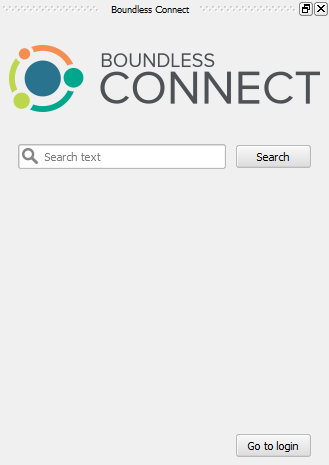
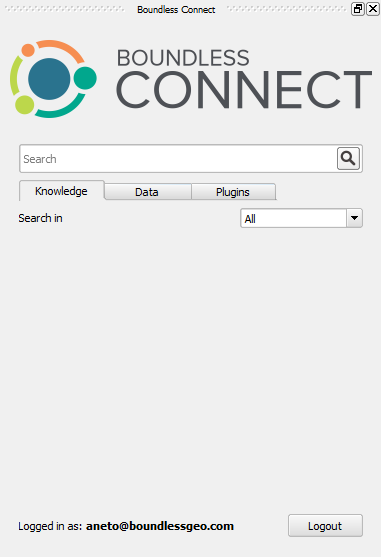
Updates documentation with new search UI and other improvements

diff --git a/docs/source/usage.rst b/docs/source/usage.rst
@@ -3,10 +3,8 @@ Usage
 
 .. _connect-tool:
 
-Boundless Connect Panel
------------------------
-
-The :guilabel:`Boundless Connect` panel will automatically open when |BLQGIS|'s QGIS is started for the first time.
+The :guilabel:`Boundless Connect` panel will automatically open when |BLQGIS|'s
+QGIS starts for the first time.
 
 .. figure:: img/connect-dock.png
    :align: center
@@ -20,7 +18,7 @@ The :guilabel:`Boundless Connect` panel will automatically open when |BLQGIS|'s 
 .. _connect-login:
 
 Boundless Connect Login
-.......................
+-----------------------
 
 If you want to install Boundless plugins from the remote *Boundless QGIS Plugin Repository* or search and access `Boundless Connect <https://connect.boundlessgeo.com/>`_ additional resources, you will need to enter `Boundless Connect <https://connect.boundlessgeo.com/>`_ credentials in the :guilabel:`email` and :guilabel:`password` fields, and press :guilabel:`Login`.
 
@@ -68,33 +66,127 @@ You can also skip entering your credentials, by pressing :guilabel:`Login` witho
    and other resources that don't require authentication. But, if you try to download protected
    plugins or access resources behind authentication, you will be asked for valid credentials.
 
-If |BLQGIS| was configured to use a local directory-based repository (check this with your system administrator), you can leave
+If |BLQGIS| is configured to use a local directory-based repository (check this with your system administrator), you can leave
 :guilabel:`Email` and :guilabel:`Password` fields empty. Press :guilabel:`Login` to continue. (In this case, you won't be asked for a master password.)
 
-Searching plugins and other resources
-.....................................
+Setting default basemaps
+........................
 
-After the login (either by entering your credentials or skipping it), the :guilabel:`Boundless Connect` panel will show a :guilabel:`Search text` field which can be used to search for Boundless plugins and other additional content.
+After the first successful login, a message box will pop up asking *Would you
+like to add Boundless basemap to your default project?*. If you choose
+**[Yes]**, the **Mapbox Street** basemap is added to your default
+project. After this, every time you open a new project it will contain the
+Mapbox basemap layer.
+
+You can revert this setting in going to :menuselection:`Settings -->
+Options` and, in the :guilabel:`General` tab, reset the default project clicking
+:guilabel:`Reset default`. You can also replace your default project by the
+one loaded in QGIS by clicking :guilabel:`Set current project as default`
+
+Check :ref:`connect-data-tab` to see how to add other basemap layers to your
+default project.
+
+.. _connect-search:
+
+Searching Boundless Connect
+---------------------------
+
+After the login (either by entering your credentials or skipping it), the :guilabel:`Boundless Connect` panel will show a :guilabel:`Search` field which can be used to search for Plugins, Data and Knowledge content from Boundless Connect.
 
 .. figure:: img/search-panel.png
    :align: center
 
    Boundless Connect Search
 
-Under the search field there is a dropdown list with all available content categories where you can select content categories in which you are interested. Note that "All" category includes all other categories, so if you select it, there is no need in selecting anything else.
+Under the search field, there are three tabs which allow you to choose the
+type content to search for: :guilabel:`Knowledge`, :guilabel:`Data`, and
+:guilabel:`Plugins`.
 
-At the bottom of the search panel, you can find the user's email you have logged with and a :guilabel:`Logout` button (clicking the :guilabel:`Logout` button will return you to the login page where you can enter new credentials).
+At the bottom of the :guilabel:`Boundless Connect` panel, you can find the user's email you have logged with and a :guilabel:`Logout` button (clicking the :guilabel:`Logout` button will return you to the login page where you can enter new credentials).
 
-To search for plugins or other resources, type some text in the field and click :guilabel:`Search` (or press :kbd:`Enter` on your keyboard).
+To search for Boundless Connect content, select the appropriate tab, type some
+text in the field and click the :guilabel:`Search` icon (or press :kbd:`Enter`
+on your keyboard).
 
 .. figure:: img/search-results.png
    :align: center
 
    Search results
 
-Each item of the search results will show a title and a description about it. There is also tags to inform the type of resources found. Depending on the type of resource, clicking on the item title will perform a different action. For items tagged as plugins, it will download and install the plugin. For other resources, like online content, it will open it in the default web browser.
+At the top of the results list, is shown the number of results. Each item of
+the search results will show an icon, a title and a description
+about it. There will also be some buttons that, depending on the type of
+resource found, will allow different actions. See the next sub-sections for
+more details.
 
-You will notice the grayed items with red tags. Those mean your subscription level is lower than it's required for accessing that resource, clicking it will point you to the subscription page in Boundless Connect, where you can upgrade your subscription.
+.. note::
+
+   You will note that some resources buttons are red (instead of blue). That
+   means your Boundless Connect subscription level is lower than what is
+   required for accessing that resource, clicking it will point you to the
+   subscription page in Boundless Connect, where you can upgrade your
+   subscription.
+
+   .. figure:: img/resource_needs_higher_subscription.png
+
+      Resource needs a higher subscription level
+
+Knowledge tab
+.............
+
+The :guilabel:`Knowledge` tab can be used to search resources related to
+knowledge about Boundless Products, including Product Documentation, Product
+Learning centers tutorials, Questions & Answers, Blog posts and Lessons
+for QGIS Lesson plugin.
+
+When in the :guilabel:`Knowledge` tab, under the search field there is a
+drop-down list of the available categories from where you can select
+the ones you are interested in searching from. Note that "All" category includes
+all other categories, so if you enable it, there is no need to choose
+any other category.
+
+.. figure:: img/knowledge_tab.png
+
+Under each result, there is a button that informs the category of the resource.
+Clicking it will perform a different action depending on the resource type.
+For lessons resources, it will download and install the lesson (you will
+need to `Lesson plugin <https://connect.boundlessgeo
+.com/docs/desktop/plugins/lessons/>`_ installed to use them). For other
+knowledge resources,
+like Documentation or Learning Center online content, it will open it in your
+default web browser.
+
+.. note::
+
+   **Learning**, **Q&A**, and **Blogs** resources will require you to enter
+   your Boundless Connect credential again in your browser.
+
+   .. figure:: img/enter_credentials_in_learning_center.png
+
+.. _connect-data-tab:
+
+Data tab
+........
+
+The :guilabel:`Data` tab can be used to search for datasets hosted or indexed
+by Boundless or available from one of our partners. For each result there
+will be two action buttons available:
+
+* :guilabel:`Add to map` - Adds the  dataset to the current QGIS project.
+* :guilabel:`Add to default project` - Adds the layer to the bottom of your QGIS
+  default project. This project will be used as a base for when you create a new
+  project.
+
+.. figure:: img/data_tab.png
+
+Plugins tab
+...........
+
+The :guilabel:`Plugins` tab can be used to search for Boundless Plugins for
+QGIS. For each result, there will be a button that allow you to
+download and install the plugin easily.
+
+.. figure:: img/plugin_tab.png
 
 .. note::
 
@@ -105,7 +197,9 @@ You will notice the grayed items with red tags. Those mean your subscription lev
 Plugins installation
 --------------------
 
-Using |connect_plugin|, two extra plugin sources can be used besides the usual online remote repository. Therefore, depending on your configuration you can install plugins in several different ways:
+|connect_plugin| adds two extra plugin sources that can be used to install
+plugins besides the usual online remote repository. Therefore, depending on
+your configuration, you can install plugins in several different ways:
 
 * :ref:`from-remote-repository`
 * :ref:`from-local-repository` (available with |connect_plugin| only)
@@ -118,7 +212,7 @@ From a remote plugin repository
 
 This is the most common way to install plugins, whether from QGIS's Official Plugins Repository, Boundless QGIS Plugins Repository or any other remote repository that you may have configured, using QGIS's *Plugin Manager* directly in :menuselection:`Plugins --> Manage and Install Plugins...`
 
-In the particular case of the remote *Boundless QGIS Plugin Repository*, it will be necessary to provide credentials to fully access the repository. Therefore, make sure to login as described in :ref:`connect-login`. These can also be set manually in QGIS *Plugin Manager* settings.
+In the particular case of the remote *Boundless QGIS Plugin Repository*, it will be necessary to provide credentials to access the repository fully. Therefore, make sure to login as described in :ref:`connect-login`. These can also be set manually in QGIS *Plugin Manager* settings.
 
 For more information on how to use *Plugin Manager*, please refer to the following tutorial on `Working with QGIS plugins <https://learning-center.boundlessgeo.com/desktop/quickstart/working_with_qgis_plugins/index.html>`_.
 
@@ -131,9 +225,9 @@ From a local repository
 
 Using |connect_plugin|, it's possible to use a local path or network path as a repository (see :ref:`configure-repository-location` section for details on how to set a local repository). This can be useful in cases of limited or inexistent internet access or to provide a curated list of plugins for your company.
 
-If any repository was set that way, the |connect_plugin| will add an additional menu item in :menuselection:`Plugins` named :guilabel:`Manage plugins (local folder)`. This tool should be used when the user wants to install plugins from a local (directory-based) repository. The usage is similar to the *Plugin Manager*.
+If any repository is set that way, the |connect_plugin| will add a menu item in :menuselection:`Plugins --> plugins (local folder)`. This tool can be used when you want to install plugins from a local (directory-based) repository. The usage is similar to the *Plugin Manager*.
 
-To activate, deactivate or uninstall plugins from a local repository, either the *Plugin Manager* or the *Manage plugins (local folder)* tool can be used.
+To activate, deactivate, or uninstall plugins from a local repository, you can use the *Plugin Manager* or the *Manage plugins (local folder)*.
 
 .. Note::
 
@@ -142,16 +236,18 @@ To activate, deactivate or uninstall plugins from a local repository, either the
    .. figure:: img/plugin-uninstall.png
       :align: center
 
-   This warning can be safely ignored, as you can install or uninstalled the plugin again using :menuselection:`Plugins --> Manage plugins (local folder)` menu item.
+   This warning can be safely ignored since you can install or uninstalled the plugin again using :menuselection:`Plugins --> Manage plugins (local folder)` menu item.
 
 .. _from-zip-package:
 
 From a plugin ZIP package
 .........................
 
-If you have a plugin package (e.g. previously downloaded from any repository or GitHub) you can easily install it using the |connect_plugin|, without the need to unpack it. Go to :menuselection:`Plugins --> Install plugin from ZIP`, browse to the directory with plugin zip package and select the corresponding file. If the zip file is a valid QGIS plugin package it will be installed and activated.
+If you have a plugin package (e.g. previously downloaded from any repository
+or packaged by yourself from sources) you can easily install it using
+the |connect_plugin|, without the need to unpack it. Go to :menuselection:`Plugins --> Install plugin from ZIP`, browse to the directory with plugin zip package and select the corresponding file. If the zip file is a valid QGIS plugin package, it is installed and activated.
 
-To deactivate or remove plugins installed this way, like before, one can use QGIS *Plugin Manager* from :menuselection:`Plugins --> Manage and Install Plugins...` menu item.
+To deactivate or remove plugins installed this way, you can use QGIS *Plugin Manager* from :menuselection:`Plugins --> Manage and Install Plugins...` menu item.
 
 .. _managing-plugins:
 
@@ -172,7 +268,7 @@ Beside the plugins installed by the user, if previously configured by the system
 Updating plugins
 ----------------
 
-By default, |connect_plugin| configure QGIS to check plugin updates every month. This check performed on QGIS start, and if updates found, you will see a corresponding message in QGIS status bar:
+By default, |connect_plugin| configure QGIS to check plugin updates every month. This check is performed on QGIS start, and if updates are found, you will see a corresponding message in QGIS status bar:
 
 .. figure:: img/update-available.png
    :align: center

diff --git a/docs/source/sysadmins.rst b/docs/source/sysadmins.rst
@@ -34,7 +34,7 @@ The ``$HOME/.qgis2/repoUrl.txt`` file is an INI-like text file with single
 The value of the ``repoUrl`` key with repository location can be:
 
 * A **repository URL**. The plugin will add this URL to the list of available
-  plugins repositories and QGIS *Plugin Manager* can be used to access it.
+  plugins repositories, and QGIS *Plugin Manager* can be used to access it.
   This is the default.
 * An **absolute path to the plugins directory**. In this case, the directory
   should contain plugins packages as well as repository description file
@@ -65,27 +65,28 @@ repository.
 
 To use our scripts you will need docker >= 1.10 and docker-compose >= 1.6.
 
-First you need to clone repository
+First, you need to clone repository.
 
 ::
 
   git clone --recursive git@github.com:boundlessgeo/qgis-plugin-repos.git
   cd qgis-plugin-repos/docker-plugins-xml
 
-Edit `docker-compose.env` file specifying your own user name and password for
-SSH service and plugin repository domain. Then source this file using command
+Next, edit the `docker-compose.env` file specifying your own user name and
+password for the SSH service and plugin repository domain. Then source this
+file using the command:
 
 ::
 
   source docker-compose.env
 
-and finally build Docker images
+and finally, build the Docker images:
 
 ::
 
   docker-compose build
 
-To start containers use following command
+To start containers use following command:
 
 ::
 
@@ -101,19 +102,20 @@ configuration, namely improve security.
 Uploading plugins to repository
 ...............................
 
-To add new plugin to the repository follow these steps:
+To add a new plugin to the repository follow these steps:
 
-# copy plugin's package to server
+#. copy plugin's package to server
 
-  ::
+   ::
 
-    scp plugin.zip repository.domain:/opt/repo-updater/uploads/
+     scp plugin.zip repository.domain:/opt/repo-updater/uploads/
 
-# run remote updater script on uploaded archive
+#. run remote updater script on uploaded archive
 
-  ::
+   ::
 
-    ssh repository.domain "/opt/repo-updater/plugins-xml/plugins-xml.sh update plugin.zip"
+     ssh repository.domain "/opt/repo-updater/plugins-xml/plugins-xml.sh
+     update plugin.zip"
 
 Run `plugins-xml.sh --help` to get information about script usage and subcommands.
 

diff --git a/docs/source/index.rst b/docs/source/index.rst
@@ -6,18 +6,24 @@
 Boundless Connect Plugin Documentation
 ======================================
 
-|connect_plugin| is the only "core" plugin shipped with |BLQGIS|, and will act as a single entry point to Boundless technology and content for QGIS.
+|connect_plugin| is a "core" plugin shipped with |BLQGIS| and
+acts as a single entry point to Boundless technology and content for QGIS.
 
-The main goal of |connect_plugin| is to provide |BLQGIS| integration with `Boundless Connect <https://connect.boundlessgeo.com/>`_ portal, making it easier to install Boundless plugins and also access additional resources like training materials, documentation, lessons, profiles, styles, etc.
-
-The current version provides:
+The primary goal of |connect_plugin| is to provide |BLQGIS| integration with
+`Boundless Connect <https://connect.boundlessgeo.com/>`_ portal, making it
+easier to install Boundless plugins and also access additional resources like
+training materials, documentation, lessons, basemaps, data, etc. The current
+version provides:
 
 * Boundless Connect Login
 * Search and install Boundless plugins for QGIS
-* Search for additional resources in Boundless Connect portal and the ability to download/view them
+* Search for knowledge resources in Boundless Connect portal and the
+  ability to download/view them
+* Search for data and basemaps
 * Support for local directory-based QGIS plugins repository
 * Ability to install QGIS plugins from local ZIP packages
-* Automated way of installing additional plugins by default by system administrators
+* Automated way of installing additional plugins by default by system
+  administrators
 
 
 Documentation contents:
@@ -27,4 +33,5 @@ Documentation contents:
 
    installation
    usage
+   plugins_installation
    sysadmins

diff --git a/docs/source/installation.rst b/docs/source/installation.rst
@@ -1,10 +1,11 @@
 Installation
 ============
 
-The |connect_plugin| is a core plugin in |BLQGIS|'s QGIS and does not need to be installed. If, at some point, you can't see either the |connect_plugin|'s panel or it's menu entries, make sure it's activated.
-
+The |connect_plugin| is a core plugin in |BLQGIS|'s QGIS and does not need to be installed. If you can't see either the |connect_plugin|'s panel or its menu entries, make sure it's activated.
 Go to :menuselection:`Plugins --> Manage and Install Plugins`, and in the :guilabel:`Installed` tab make sure the plugin's checkbox is enabled.
 
 .. figure:: img/connect-active.png
+
+   Boundless connect plugin enabled
 
 
